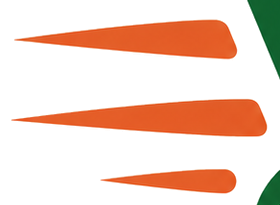
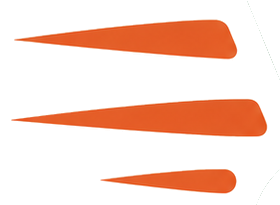
fix(T46): intro speed lines join the cart without a seam
Split lines from the cart by colour instead of a rectangle (the rectangle
cut a slice of the cart frame into the static lines layer), and move both
as one layer. Regenerated brand assets; small cart icons lose the same cut.

Changed region(s): [[0.8857, 0.0, 1.0, 0.3805], [0.9143, 0.8195, 1.0, 1.0]]

diff --git a/apps/customer/src/components/IntroOverlay.tsx b/apps/customer/src/components/IntroOverlay.tsx
@@ -136,36 +136,43 @@ export function IntroOverlay({ enabled = shouldPlayIntro() }: { enabled?: boolea
         pointerEvents="none"
         style={{ width: boxW, height: px(SCENE.h), transform: [{ scale: bounce }] }}
       >
-        <Animated.Image
-          source={LINES}
-          accessibilityIgnoresInvertColors
-          style={{
-            position: 'absolute',
-            left: px(LINES_BOX.left),
-            top: px(LINES_BOX.top),
-            width: px(LINES_BOX.w),
-            height: px(LINES_BOX.h),
-            opacity: linesOpacity,
-            transform: [
-              { translateX: px(LINES_BOX.w / 2) },
-              { scaleX: linesScale },
-              { translateX: -px(LINES_BOX.w / 2) },
-            ],
-          }}
-        />
-        <Animated.Image
-          source={CART}
-          accessibilityIgnoresInvertColors
-          resizeMode="contain"
-          style={{
-            position: 'absolute',
-            left: px(CART_BOX.left),
-            top: px(CART_BOX.top),
-            width: px(CART_BOX.w),
-            height: px(CART_BOX.h),
-            transform: [{ translateX: Animated.multiply(cartX, k) }],
-          }}
-        />
+        {/* العربة والخطوط طبقة واحدة تتحرك معاً (لا خط فاصل بينهما)؛ الخطوط تتمدد من طرفها الملاصق للعربة */}
+        <Animated.View
+          style={[
+            StyleSheet.absoluteFill,
+            { transform: [{ translateX: Animated.multiply(cartX, k) }] },
+          ]}
+        >
+          <Animated.Image
+            source={LINES}
+            accessibilityIgnoresInvertColors
+            style={{
+              position: 'absolute',
+              left: px(LINES_BOX.left),
+              top: px(LINES_BOX.top),
+              width: px(LINES_BOX.w),
+              height: px(LINES_BOX.h),
+              opacity: linesOpacity,
+              transform: [
+                { translateX: px(LINES_BOX.w / 2) },
+                { scaleX: linesScale },
+                { translateX: -px(LINES_BOX.w / 2) },
+              ],
+            }}
+          />
+          <Animated.Image
+            source={CART}
+            accessibilityIgnoresInvertColors
+            resizeMode="contain"
+            style={{
+              position: 'absolute',
+              left: px(CART_BOX.left),
+              top: px(CART_BOX.top),
+              width: px(CART_BOX.w),
+              height: px(CART_BOX.h),
+            }}
+          />
+        </Animated.View>
       </Animated.View>
     </Animated.View>
   );

diff --git a/docs/tasks/46-real-logo-intro.md b/docs/tasks/46-real-logo-intro.md
@@ -14,3 +14,8 @@
 - الـ splash الأصلي يبقى ثابتاً (الشعار) ثم تبدأ المقدمة؛ أبسط من مقدمة داخل الـ splash الأصلي (لا يدعم تحريكاً بلا dev build).
 - `theme_color` يبقى `#1F6B3A` (يطابق أخضر الشعار)، وخلفية التطبيق `#F7F8F3` تطابق خلفية الشعار تماماً.
 - تطبيق السائق يأخذ الأيقونات الجديدة نفسها (مصدر واحد) بلا مقدمة.
+
+## إصلاح لاحق (2026-11-24): خط فاصل بين الخطوط والعربة
+- كان `build-icons.mjs` يقص الخطوط بمستطيل فيقطع جزءاً من إطار العربة الأيسر (يبقى بطبقة الخطوط الثابتة) ← حافة عمودية مقطوعة أثناء دخول العربة. الآن الفصل **باللون** (الأخضر للعربة، الباقي للخطوط، بوزن تدريجي) فالعربة كاملة، و**العربة والخطوط طبقة واحدة** تتحرك معاً (الخطوط تتمدد من طرفها الملاصق للعربة).
+- أُعيد توليد الأصول (`pnpm brand:icons`): الأيقونات الصغيرة المبنية من العربة كان فيها القطع نفسه وصارت كاملة.
+- فُحص إطاراً إطاراً (كل 50 ms، 375x812، ساعة Playwright): لا خط فاصل.
